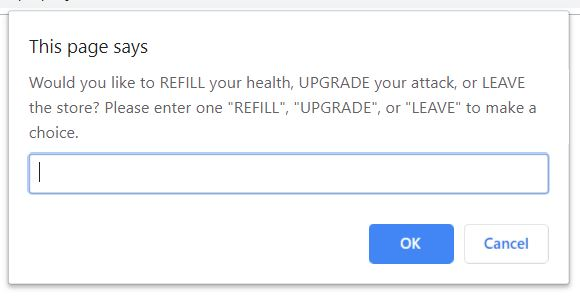
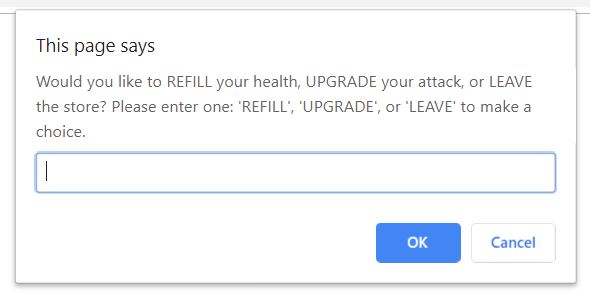
double quotes

diff --git a/03-javascript/content/lesson-3-multi-functions.md b/03-javascript/content/lesson-3-multi-functions.md
@@ -338,12 +338,10 @@ Replace the `console.log()` in `shop()` with a `prompt()`:
 var shop = function() {
   // ask player what they'd like to do
   var shopOptionPrompt = window.prompt(
-    'Would you like to REFILL your health, UPGRADE your attack, or LEAVE the store? Please enter one: "REFILL", "UPGRADE", or "LEAVE" to make a choice.'
+    "Would you like to REFILL your health, UPGRADE your attack, or LEAVE the store? Please enter one: 'REFILL', 'UPGRADE', or 'LEAVE' to make a choice."
   );
 };
 ```
-
-> **Important:** The `prompt()` string needed to use single quotes (`'`) instead of double quotes (`"`), because there were double quotes in the message itself. Writing `"Would you like to "REFILL" your health"` would cause an error, because JavaScript would think the string ended at the second quote mark: `"Would you like to "`.
 
 Whatever the user types in the prompt window will become the value of the variable `shopOptionPrompt`. There are four possibilities we need to account for: REFILL, UPGRADE, LEAVE, and anything else. If your instinct is to use a series of `if` statements, that's great thinking! In programming, however, there's always more than one way to solve a problem. We'll use this prompt as a chance to explore `switch` statements as an alternative to `if`.
 
